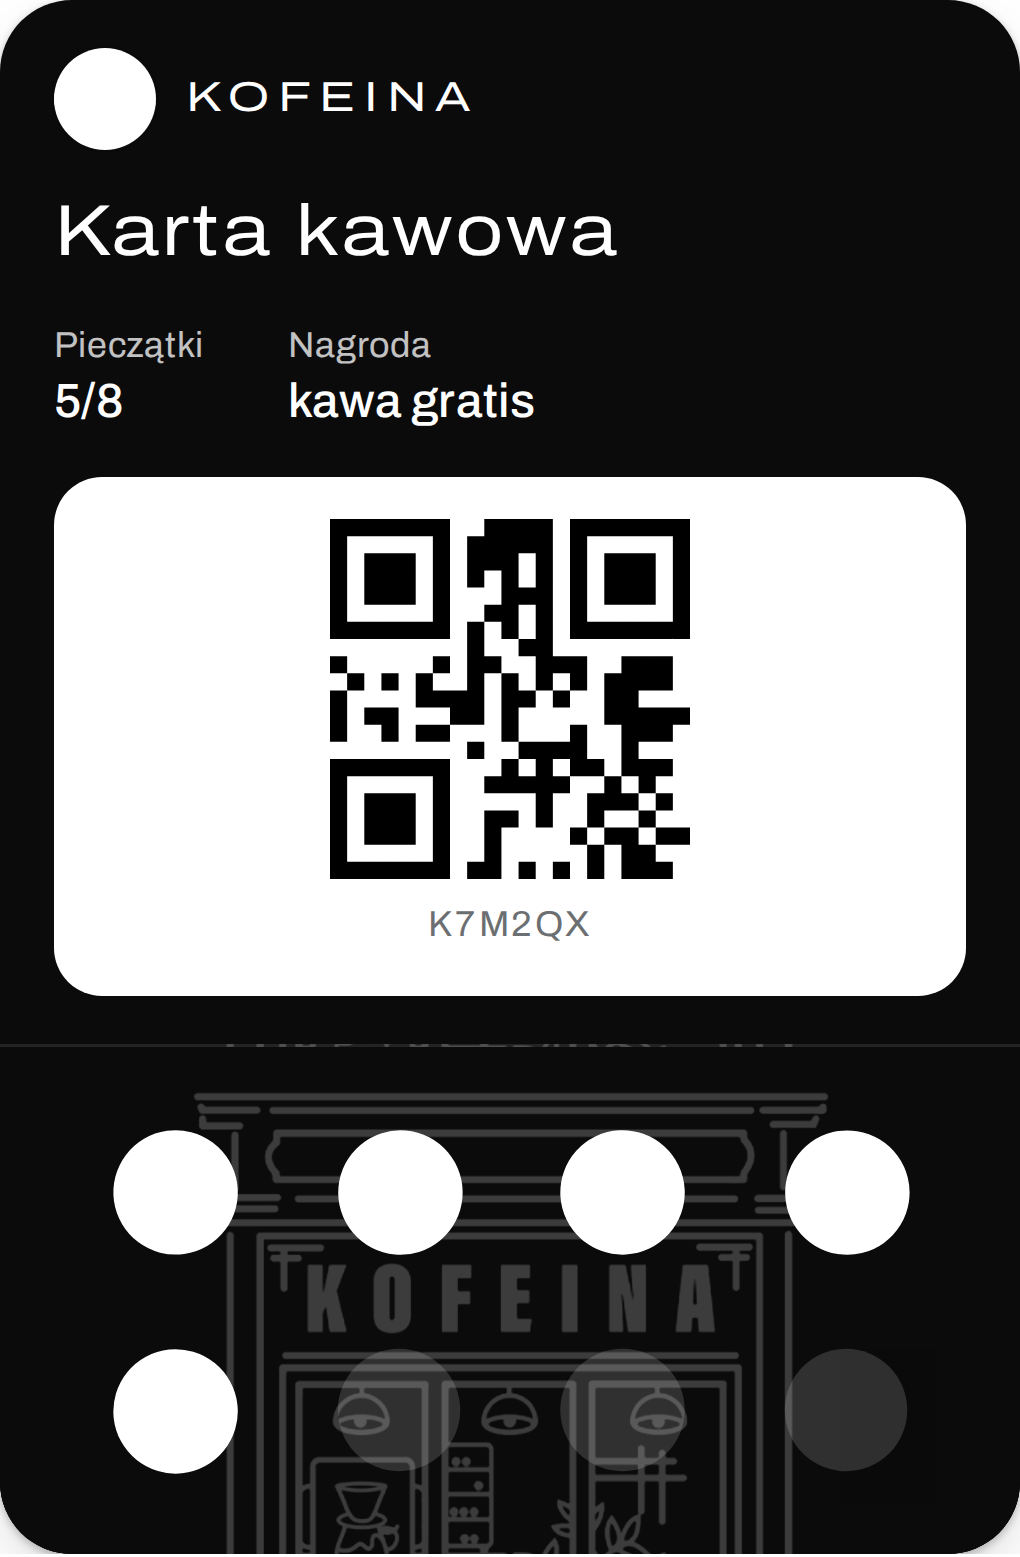
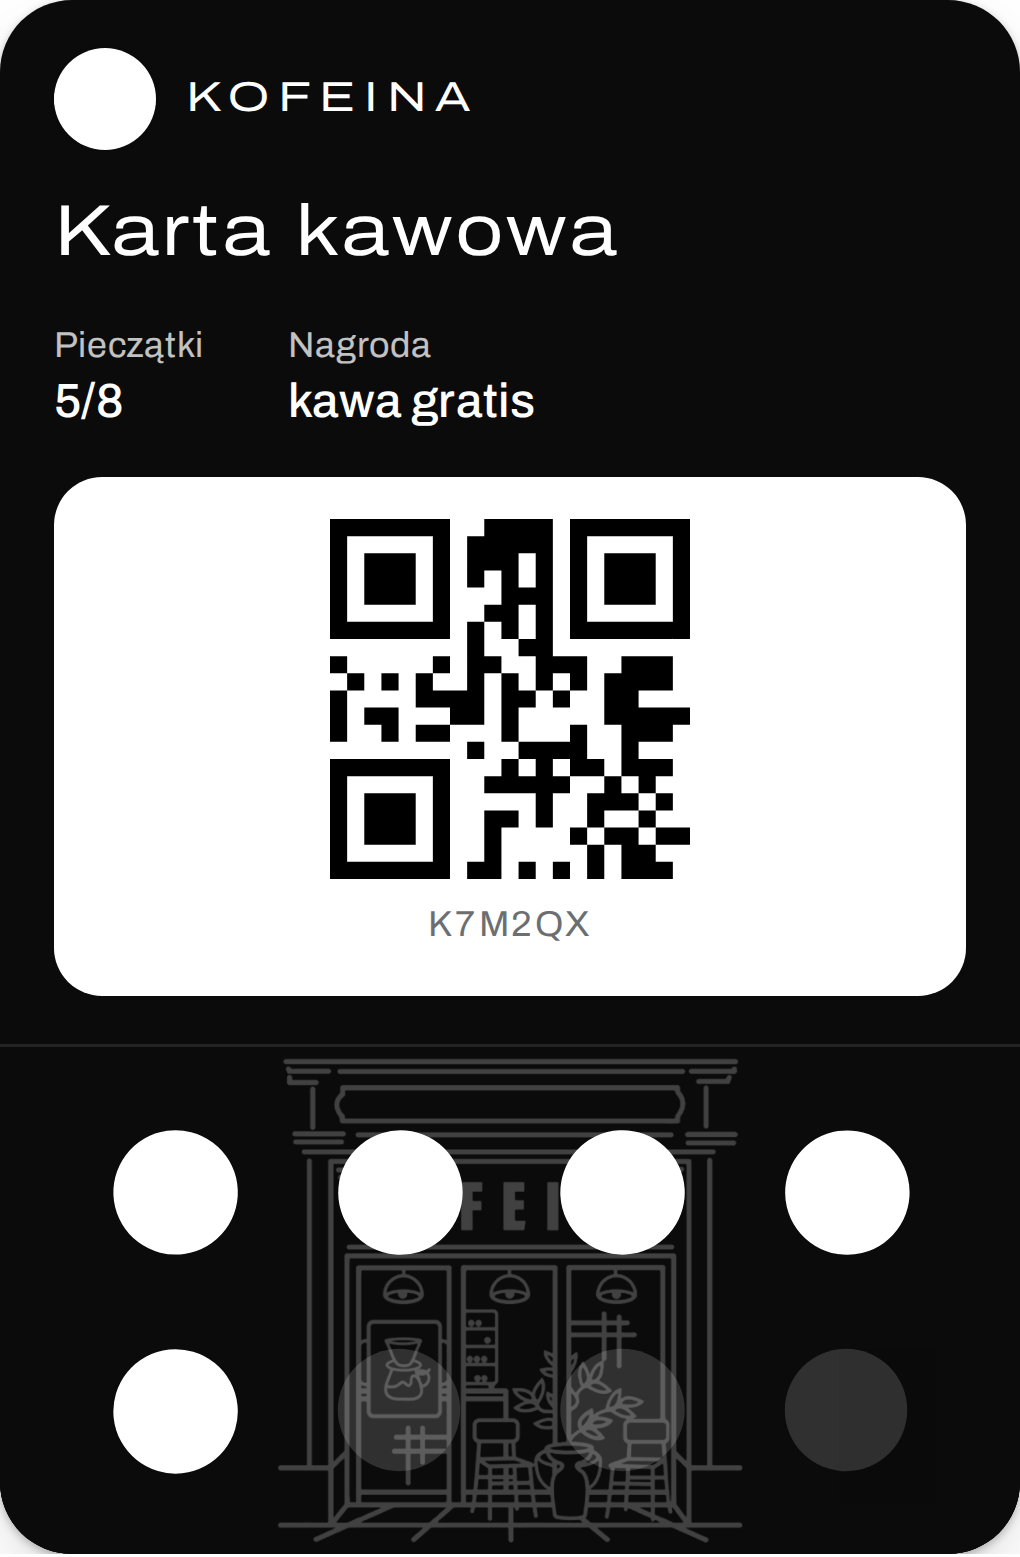
Kofeina dark card: whole storefront visible behind the stamps
Claude-Session: https://claude.ai/code/session_015Jxz3uYVBeA1BfejC8Sdvv

Changed region(s): [[0.1824, 0.6782, 0.8206, 1.0]]

diff --git a/print/example-cards.html b/print/example-cards.html
@@ -33,8 +33,7 @@ h1{font-size:28px;margin:0 0 6px}
   const OWL = await dataUrl('kit-sowa/art/sowa-owl-brown.png');
   const ORSO_LOGO = await dataUrl('kit-orsonero/art/orsonero-logo.svg');
   const ORSO_STAMP = await dataUrl('kit-orsonero/art/orsonero-stamp.svg');
-  // A strip with a big, faint logo in the middle: the stamps sit on top of it. `y` moves it
-  // (Kofeina: the storefront's KOFEINA sign sits between the two rows of stamps).
+  // A strip with a big, faint logo in the middle: the stamps sit on top of it. `y` moves it.
   const watermark = (img, bg, opacity, w = 1020, h = 450, size = 400, y = (h - size) / 2) => svgUrl(`<svg xmlns="http://www.w3.org/2000/svg" xmlns:xlink="http://www.w3.org/1999/xlink" viewBox="0 0 ${w} ${h}"><rect width="${w}" height="${h}" fill="${bg}"/><image href="${img}" xlink:href="${img}" x="${(w - size) / 2}" y="${y}" width="${size}" height="${size}" opacity="${opacity}" preserveAspectRatio="xMidYMid meet"/></svg>`);
   // Sowa's feather pattern (as on cukierniasowa.pl): pointed scales in offset rows, in cream.
   const W = 78, H = 44, feather = (x, y) => `M${x} ${y}C${x} ${y + H * .55} ${x + W * .28} ${y + H * .9} ${x + W / 2} ${y + H}C${x + W * .72} ${y + H * .9} ${x + W} ${y + H * .55} ${x + W} ${y}`;
@@ -68,7 +67,7 @@ h1{font-size:28px;margin:0 0 6px}
       { name: 'kofeina-simple', label: 'Prosta: logo, czarne kropki', stamps: 6,
         card: { ...KOF, stampsNeeded: 10, color: '#FFFFFF', ink: '#0B0B0C', strip: '#FFFFFF', logo: 'kit-kofeina/art/kofeina-logo-black.png', stampImage: dot('#0B0B0C') } },
       { name: 'kofeina-dark', label: 'Czarna: ich kawiarnia w tle, białe kropki', stamps: 5,
-        card: { ...KOF, stampsNeeded: 8, color: '#0B0B0C', ink: '#FFFFFF', strip: '#0B0B0C', logo: 'kit-kofeina/art/kofeina-logo-white.png', stripImage: watermark(STORE_W, '#0B0B0C', .2, 1020, 450, 600, 40), stampImage: dot('#FFFFFF') } }
+        card: { ...KOF, stampsNeeded: 8, color: '#0B0B0C', ink: '#FFFFFF', strip: '#0B0B0C', logo: 'kit-kofeina/art/kofeina-logo-white.png', stripImage: watermark(STORE_W, '#0B0B0C', .22, 1020, 450, 430), stampImage: dot('#FFFFFF') } }
     ] },
     { id: 'orsonero', lang: 'en', title: 'Orsonero Coffee', note: 'Their logo at the top left, the grey and white awning behind the stamps; every stamp is the bear in a circle.', cards: [
       { name: 'orsonero-stripes', label: 'Their logo top left, awning stripes, bear stamps', stamps: 5,
